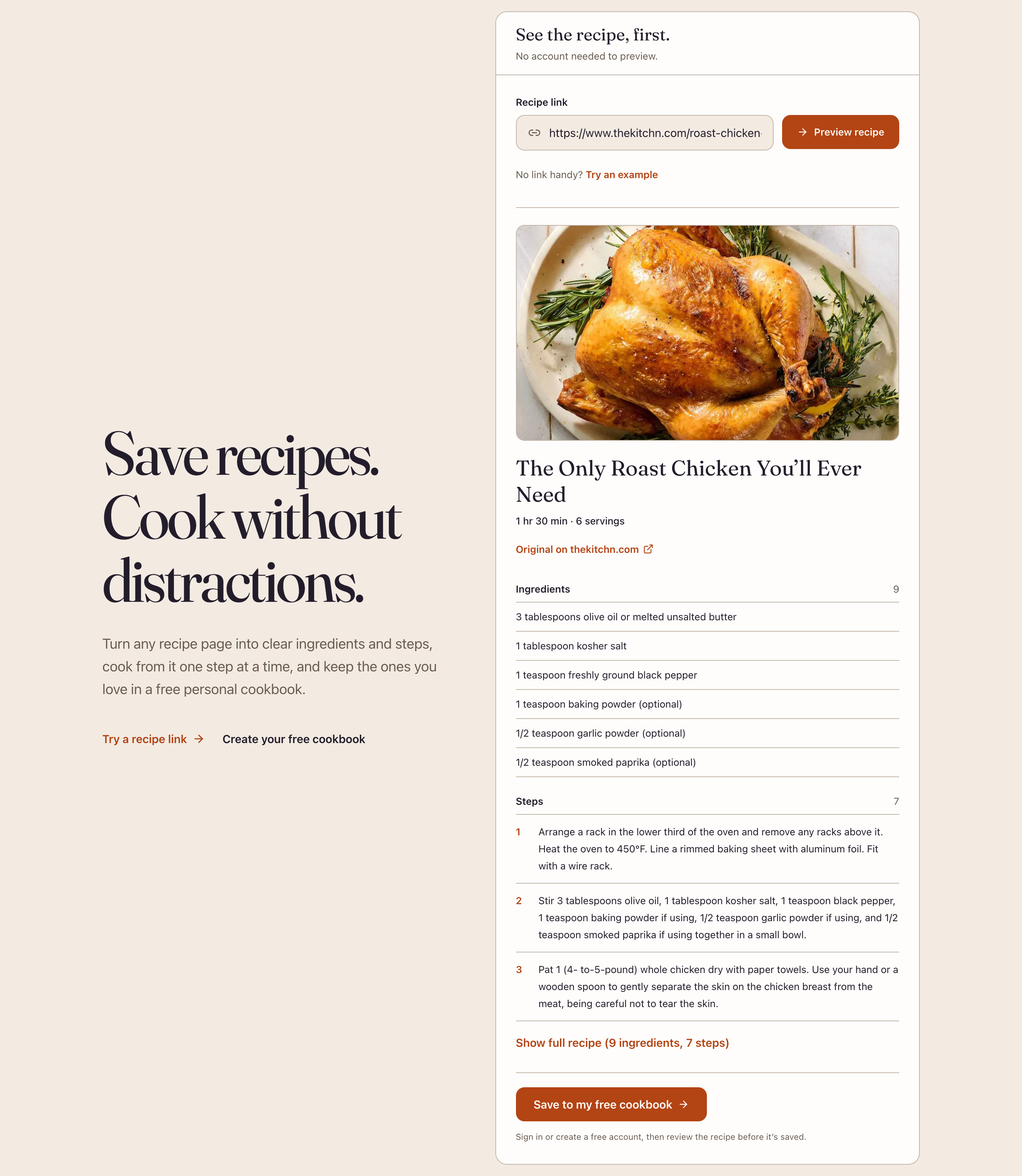
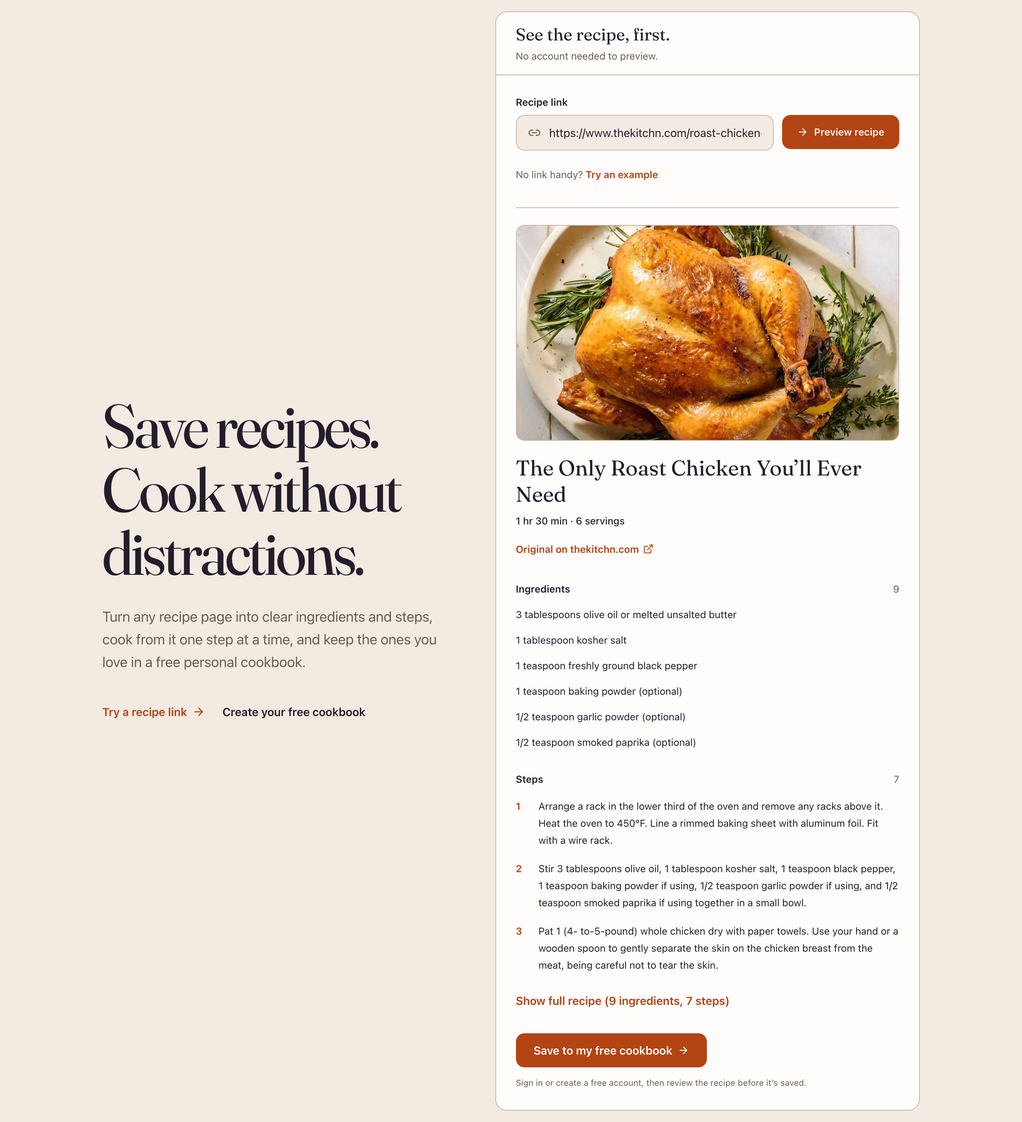
Landing: extension in a desktop Chrome window, no inner dividers
The side panel is shown beside a recipe blog in a drawn Chrome window
(capture-browser.mjs), cropped to toolbar and panel on phones, with a
desktop-only note under Add to Chrome. Phone bezel stays dark in both
themes. Lines between steps and descriptions inside a block removed.

diff --git a/scripts/store/browser.html b/scripts/store/browser.html
@@ -1,0 +1,82 @@
+<!doctype html>
+<!-- A desktop Chrome window drawn around two live pages: the recipe blog (host-page.html) and the real
+     extension side panel (extension/sidepanel.html, chrome.* stubbed by capture-browser.mjs).
+     Served from the repo root: http://127.0.0.1:8765/scripts/store/browser.html -->
+<html lang="en">
+<head>
+<meta charset="utf-8">
+<title>Keep &amp; Cook in Chrome</title>
+<style>
+  * { box-sizing: border-box; margin: 0; }
+  html, body { width: 100%; height: 100%; overflow: hidden; background: #dfe3e8; font-family: -apple-system, BlinkMacSystemFont, "Segoe UI", sans-serif; -webkit-font-smoothing: antialiased; color: #1f1f1f; }
+  svg { width: 20px; height: 20px; fill: none; stroke: #474747; stroke-width: 1.8; stroke-linecap: round; stroke-linejoin: round; flex: none; }
+  .window { display: grid; grid-template-rows: 42px 46px minmax(0, 1fr); height: 100%; }
+
+  .tabs { display: flex; align-items: flex-end; gap: 6px; padding: 0 12px; }
+  .lights { display: flex; gap: 8px; align-self: center; margin-right: 14px; }
+  .lights i { width: 12px; height: 12px; border-radius: 50%; background: #ff5f57; }
+  .lights i:nth-child(2) { background: #febc2e; } .lights i:nth-child(3) { background: #28c840; }
+  .tab { display: flex; align-items: center; gap: 9px; width: 260px; height: 34px; padding: 0 12px; border-radius: 10px 10px 0 0; background: #fff; font-size: 12.5px; }
+  .tab span:not(.favicon) { flex: 1; overflow: hidden; white-space: nowrap; text-overflow: ellipsis; }
+  .favicon { display: grid; place-items: center; width: 16px; height: 16px; border-radius: 4px; background: #2b2b2b; color: #fff; font: italic 11px Georgia, serif; }
+  .tab svg { width: 14px; height: 14px; }
+  .plus { align-self: center; margin-left: 4px; }
+
+  .toolbar { display: flex; align-items: center; gap: 14px; padding: 0 14px; background: #fff; border-bottom: 1px solid #e3e3e3; }
+  .omnibox { display: flex; flex: 1; align-items: center; gap: 10px; height: 34px; padding: 0 14px; border-radius: 17px; background: #eef1f4; font-size: 14px; color: #474747; }
+  .omnibox b { font-weight: 400; color: #1f1f1f; }
+  .omnibox .star { margin-left: auto; }
+  .ext { display: grid; place-items: center; width: 32px; height: 32px; border-radius: 50%; background: #e8eaed; }
+  .ext img { width: 18px; height: 18px; }
+  .avatar { width: 26px; height: 26px; border-radius: 50%; background: #8a6d5a; }
+
+  .content { display: grid; grid-template-columns: minmax(0, 1fr) 400px; min-height: 0; background: #fff; }
+  .content > iframe { width: 100%; height: 100%; border: 0; }
+  .side { display: grid; grid-template-rows: 44px minmax(0, 1fr); min-height: 0; border-left: 1px solid #d3d6da; }
+  .side-header { display: flex; align-items: center; gap: 10px; padding: 0 10px 0 16px; background: #fff; font-size: 13px; font-weight: 600; border-bottom: 1px solid #e3e3e3; }
+  .side-header img { width: 16px; height: 16px; }
+  .side-header .chevron { width: 14px; height: 14px; }
+  .side-header .end { margin-left: auto; display: flex; gap: 14px; }
+  .side-header .end svg { width: 17px; height: 17px; }
+  .side iframe { width: 100%; height: 100%; border: 0; }
+</style>
+</head>
+<body>
+  <div class="window">
+    <div class="tabs">
+      <div class="lights"><i></i><i></i><i></i></div>
+      <div class="tab"><span class="favicon">S</span><span>Lemon &amp; herb roast chicken – Sunday Suppers</span><svg viewBox="0 0 24 24"><path d="M6 6l12 12M18 6 6 18"/></svg></div>
+      <svg class="plus" viewBox="0 0 24 24"><path d="M12 5v14M5 12h14"/></svg>
+    </div>
+    <div class="toolbar">
+      <svg viewBox="0 0 24 24"><path d="M19 12H5m6-6-6 6 6 6"/></svg>
+      <svg viewBox="0 0 24 24" style="opacity: .45"><path d="M5 12h14m-6-6 6 6-6 6"/></svg>
+      <svg viewBox="0 0 24 24"><path d="M20 12a8 8 0 1 1-2.3-5.6M20 4v5h-5"/></svg>
+      <div class="omnibox">
+        <svg viewBox="0 0 24 24" style="width: 17px; height: 17px"><path d="M4 8h10m4 0h2M4 16h2m4 0h10"/><circle cx="16" cy="8" r="2"/><circle cx="8" cy="16" r="2"/></svg>
+        <span><b>sundaysuppers.example</b>/lemon-herb-roast-chicken</span>
+        <svg class="star" viewBox="0 0 24 24"><path d="m12 4 2.4 5 5.6.7-4.1 3.8 1 5.5-4.9-2.7-4.9 2.7 1-5.5L4 9.7 9.6 9z"/></svg>
+      </div>
+      <span class="ext" title="Keep &amp; Cook"><img src="/extension/icons/icon-32.png" alt=""></span>
+      <svg viewBox="0 0 24 24"><path d="M9 4h4v3a2 2 0 1 0 4 0V4h3v6h-3a2 2 0 1 0 0 4h3v6H4V4h5z"/></svg>
+      <svg viewBox="0 0 24 24"><rect x="4" y="5" width="16" height="14" rx="2"/><path d="M14 5v14"/></svg>
+      <span class="avatar"></span>
+      <svg viewBox="0 0 24 24"><circle cx="12" cy="5.5" r=".8"/><circle cx="12" cy="12" r=".8"/><circle cx="12" cy="18.5" r=".8"/></svg>
+    </div>
+    <div class="content">
+      <iframe src="host-page.html" title="Recipe page"></iframe>
+      <div class="side">
+        <div class="side-header">
+          <img src="/extension/icons/icon-32.png" alt=""><span>Keep &amp; Cook</span>
+          <svg class="chevron" viewBox="0 0 24 24"><path d="m6 9 6 6 6-6"/></svg>
+          <span class="end">
+            <svg viewBox="0 0 24 24"><path d="M9 4h6l-1 6 3 3H7l3-3zM12 13v7"/></svg>
+            <svg viewBox="0 0 24 24"><path d="M6 6l12 12M18 6 6 18"/></svg>
+          </span>
+        </div>
+        <iframe src="/extension/sidepanel.html" title="Keep &amp; Cook side panel"></iframe>
+      </div>
+    </div>
+  </div>
+</body>
+</html>

diff --git a/scripts/store/host-page.html b/scripts/store/host-page.html
@@ -1,0 +1,49 @@
+<!doctype html>
+<!-- A typical recipe blog page for the browser composition (browser.html). The site is made up and
+     uses our own demo recipe text and photo; it is deliberately not Keep & Cook styled. -->
+<html lang="en">
+<head>
+<meta charset="utf-8">
+<title>Lemon &amp; herb roast chicken – Sunday Suppers</title>
+<style>
+  * { box-sizing: border-box; margin: 0; }
+  body { font-family: Georgia, "Times New Roman", serif; color: #2b2b2b; background: #fff; font-size: 17px; line-height: 1.7; }
+  header { display: flex; align-items: center; justify-content: space-between; padding: 18px 40px; border-bottom: 1px solid #e6e6e6; }
+  .logo { font-size: 26px; font-style: italic; letter-spacing: -0.01em; }
+  nav { display: flex; gap: 26px; font-family: -apple-system, BlinkMacSystemFont, "Segoe UI", sans-serif; font-size: 13px; letter-spacing: 0.08em; text-transform: uppercase; color: #555; }
+  .ad { display: grid; place-items: center; background: #f2f2f2; color: #9a9a9a; font-family: -apple-system, BlinkMacSystemFont, sans-serif; font-size: 11px; letter-spacing: 0.12em; text-transform: uppercase; }
+  .ad.top { height: 90px; margin: 18px auto 0; width: 728px; max-width: calc(100% - 80px); }
+  .layout { display: grid; grid-template-columns: minmax(0, 1fr) 260px; gap: 40px; max-width: 1080px; margin: 0 auto; padding: 30px 40px; }
+  .crumbs { font-family: -apple-system, sans-serif; font-size: 12px; color: #888; text-transform: uppercase; letter-spacing: 0.08em; }
+  h1 { margin-top: 10px; font-size: 40px; line-height: 1.15; font-weight: 400; }
+  .byline { margin-top: 12px; font-family: -apple-system, sans-serif; font-size: 13px; color: #777; }
+  .jump { display: inline-block; margin-top: 16px; padding: 8px 16px; border: 1px solid #2b2b2b; font-family: -apple-system, sans-serif; font-size: 12px; letter-spacing: 0.1em; text-transform: uppercase; }
+  article p { margin-top: 18px; }
+  article img { display: block; width: 100%; aspect-ratio: 16 / 10; object-fit: cover; margin-top: 22px; }
+  .ad.inline { height: 250px; margin-top: 24px; }
+  aside .ad { height: 600px; }
+  aside h2 { margin-top: 28px; font-size: 15px; font-family: -apple-system, sans-serif; text-transform: uppercase; letter-spacing: 0.1em; }
+  .cookies { position: fixed; left: 0; right: 0; bottom: 0; display: flex; align-items: center; gap: 24px; padding: 16px 40px; background: #1f1f1f; color: #eee; font-family: -apple-system, sans-serif; font-size: 13px; line-height: 1.5; }
+  .cookies b { margin-left: auto; padding: 9px 18px; background: #fff; color: #1f1f1f; white-space: nowrap; }
+</style>
+</head>
+<body>
+  <header><div class="logo">Sunday Suppers</div><nav><span>Recipes</span><span>Dinner</span><span>Baking</span><span>About</span></nav></header>
+  <div class="ad top">Advertisement</div>
+  <div class="layout">
+    <article>
+      <div class="crumbs">Home › Dinner › Chicken</div>
+      <h1>The best lemon &amp; herb roast chicken (my family’s favourite!)</h1>
+      <div class="byline">Updated March 3 · 14 min read · 212 comments</div>
+      <span class="jump">Jump to recipe</span>
+      <p>There’s something about a Sunday roast that takes me straight back to my grandmother’s kitchen. The windows would fog up, the radio would be on, and the whole house smelled of lemon and thyme long before anyone sat down. I’ve made this chicken more times than I can count, and over the years I’ve tweaked it into the version you see today.</p>
+      <img src="photos/roast-chicken.webp" alt="">
+      <p>Before we get to the recipe, let’s talk about why this method works so well. The secret is in how you prepare the skin, and there are a few things you’ll want to know about choosing your chicken, which I’ll cover in detail below.</p>
+      <div class="ad inline">Advertisement</div>
+      <p>First, a little story about the first time I made this for a crowd…</p>
+    </article>
+    <aside><div class="ad">Advertisement</div><h2>Popular this week</h2></aside>
+  </div>
+  <div class="cookies">We use cookies to personalise content and ads and to analyse our traffic. <b>Accept all</b></div>
+</body>
+</html>

diff --git a/src/app/(marketing)/chrome-extension/page.tsx b/src/app/(marketing)/chrome-extension/page.tsx
@@ -2,7 +2,7 @@ import Link from "next/link";
 import { ArrowRight } from "lucide-react";
 
 import AddToChrome from "@/src/components/landing/AddToChrome";
-import { Screen, screens } from "@/src/components/landing/Screen";
+import { BrowserScreen, Screen, screens } from "@/src/components/landing/Screen";
 import { marketingMetadata } from "@/src/lib/page-metadata";
 
 export const metadata = marketingMetadata({
@@ -29,17 +29,15 @@ export default function ChromeExtensionPage() {
   return (
     <>
       <section aria-labelledby="extension-page-title" className="border-b border-border bg-background px-5 pb-16 pt-32 sm:px-8 sm:pb-24 sm:pt-40">
-        <div className="mx-auto grid max-w-6xl items-center gap-12 lg:grid-cols-[minmax(0,1.1fr)_minmax(0,.9fr)] lg:gap-20">
-          <div className="max-w-xl">
+        <div className="mx-auto max-w-6xl">
+          <div className="max-w-3xl">
             <h1 id="extension-page-title" className="font-display text-balance text-[clamp(2.75rem,5vw,4.5rem)] leading-[1.05] tracking-[-0.035em] text-foreground">Read, cook and save recipes in Chrome.</h1>
-            <p className="mt-7 max-w-[34rem] text-lg leading-8 text-muted-foreground sm:text-xl">
+            <p className="mt-7 max-w-[38rem] text-lg leading-8 text-muted-foreground sm:text-xl">
               Keep &amp; Cook puts the recipe beside the page, without the life story and the pop-ups. Reading, cooking and downloading are free and need no account.
             </p>
             <div className="mt-8"><AddToChrome /></div>
           </div>
-          <div className="mx-auto h-[43rem] w-full max-w-[20rem] overflow-hidden rounded-2xl border border-border">
-            <Screen screen={screens.extensionPanel} priority className="rounded-none border-0" />
-          </div>
+          <BrowserScreen priority className="mt-14" />
         </div>
       </section>
 
@@ -47,9 +45,9 @@ export default function ChromeExtensionPage() {
         <div className="mx-auto max-w-6xl">
           <h2 id="extension-features-title" className="max-w-2xl font-display text-balance text-4xl leading-[1.12] tracking-[-0.025em] text-foreground sm:text-5xl">What it does on a recipe page.</h2>
           <div className="mt-12 grid gap-12 lg:grid-cols-[minmax(0,.85fr)_minmax(0,1.15fr)] lg:gap-16">
-            <dl className="border-t border-border">
+            <dl>
               {features.map(([title, detail]) => (
-                <div key={title} className="border-b border-border py-6">
+                <div key={title} className="py-6">
                   <dt className="font-display text-2xl text-foreground">{title}</dt>
                   <dd className="mt-2 leading-7 text-muted-foreground">{detail}</dd>
                 </div>
@@ -64,9 +62,9 @@ export default function ChromeExtensionPage() {
         <div className="mx-auto grid max-w-6xl gap-12 lg:grid-cols-2 lg:gap-20">
           <div>
             <h2 id="extension-start-title" className="font-display text-balance text-4xl leading-[1.12] tracking-[-0.025em] text-foreground sm:text-5xl">Get started in a minute.</h2>
-            <ol className="mt-10 border-t border-border">
+            <ol className="mt-10">
               {steps.map(([title, detail], index) => (
-                <li key={title} className="grid grid-cols-[2.5rem_minmax(0,1fr)] gap-x-4 border-b border-border py-6">
+                <li key={title} className="grid grid-cols-[2.5rem_minmax(0,1fr)] gap-x-4 py-6">
                   <span aria-hidden="true" className="font-display text-2xl text-primary">{index + 1}</span>
                   <div>
                     <h3 className="text-lg font-semibold text-foreground">{title}</h3>

diff --git a/src/components/landing/Screen.tsx b/src/components/landing/Screen.tsx
@@ -2,7 +2,7 @@ import { cn } from "@/src/lib/utils";
 
 // Real Keep & Cook screens captured with the demo cookbook (scripts/store/capture-screens.mjs).
 export const screens = {
-  extensionPanel: { src: "/screens/extension-panel.webp", width: 800, height: 2080, alt: "The Keep & Cook side panel showing a roast chicken recipe: photo, time and servings, Save to my recipes and Start cooking buttons, and an ingredient checklist with two items ticked." },
+  extensionBrowser: { src: "/screens/extension-browser.webp", width: 2560, height: 1600, alt: "A desktop Chrome window: a cluttered recipe blog with ads and a cookie banner on the left, and the Keep & Cook side panel on the right showing the same roast chicken recipe with its photo, time and servings, and Save to my recipes and Start cooking buttons." },
   extensionCooking: { src: "/screens/extension-cooking.webp", width: 2400, height: 1400, alt: "Cooking mode from the extension: step 3 of 4 in large text, a one-hour timer running, and Previous and Next step buttons." },
   libraryDesktop: { src: "/screens/library-desktop.webp", width: 2560, height: 1600, alt: "A Keep & Cook library on a laptop: a search field and a grid of six saved recipes with photos and cooking times." },
   recipePhone: { src: "/screens/recipe-phone.webp", width: 1170, height: 2532, alt: "A saved roast chicken recipe on a phone, with its source link, time, servings and a Start cooking button." },
@@ -20,10 +20,28 @@ export function Screen({ screen, className, priority = false }: ScreenProps) {
   );
 }
 
-// A phone-shaped frame around a phone capture; the device edge uses the ink colour.
+// The extension in a desktop Chrome window (scripts/store/capture-browser.mjs). Below sm the capture is
+// cropped to its top right, where the toolbar and the side panel are, instead of shrinking the whole window.
+export function BrowserScreen({ className, priority = false }: { className?: string; priority?: boolean }) {
+  const screen = screens.extensionBrowser;
+  return (
+    <figure className={className}>
+      <div className="relative aspect-square overflow-hidden rounded-2xl border border-border bg-card sm:aspect-auto">
+        {/* eslint-disable-next-line @next/next/no-img-element -- static captures, already sized and compressed */}
+        <img src={screen.src} alt={screen.alt} width={screen.width} height={screen.height}
+          loading={priority ? "eager" : "lazy"} decoding="async"
+          className="absolute right-0 top-0 h-auto w-[192%] max-w-none sm:static sm:block sm:w-full" />
+      </div>
+      <figcaption className="mt-3 text-sm leading-6 text-muted-foreground">Keep &amp; Cook in Chrome’s side panel, on a computer.</figcaption>
+    </figure>
+  );
+}
+
+// A phone-shaped frame around a phone capture. The bezel is the light theme's ink in both themes (a phone
+// does not turn cream in dark mode), with a hairline so it still separates from a dark page.
 export function PhoneScreen({ screen, className }: Omit<ScreenProps, "priority">) {
   return (
-    <div className={cn("overflow-hidden rounded-[2.25rem] border-[7px] border-foreground bg-card", className)}>
+    <div className={cn("overflow-hidden rounded-[2.25rem] border-[7px] border-[hsl(268_20%_14%)] bg-card shadow-[0_0_0_1px_hsl(var(--border)),0_24px_48px_-20px_rgb(0_0_0/0.45)]", className)}>
       {/* eslint-disable-next-line @next/next/no-img-element -- static captures, already sized and compressed */}
       <img src={screen.src} alt={screen.alt} width={screen.width} height={screen.height} loading="lazy" decoding="async" className="block h-auto w-full" />
     </div>

diff --git a/src/components/landing/Hero.tsx b/src/components/landing/Hero.tsx
@@ -181,12 +181,12 @@ export default function Hero() {
 
                   {ingredients.length > 0 && (
                     <section aria-labelledby="hero-ingredients" className="mt-6">
-                      <h3 id="hero-ingredients" className="flex items-baseline justify-between gap-3 border-b border-border pb-2 text-sm font-semibold text-foreground">
+                      <h3 id="hero-ingredients" className="flex items-baseline justify-between gap-3 pb-2 text-sm font-semibold text-foreground">
                         Ingredients <span className="font-normal text-muted-foreground">{ingredients.length}</span>
                       </h3>
                       <ul className="text-sm leading-6 text-foreground">
                         {shownIngredients.map((line, index) => (
-                          <li key={`${index}-${line}`} className="border-b border-border py-2 [overflow-wrap:anywhere]">{line}</li>
+                          <li key={`${index}-${line}`} className="py-1.5 [overflow-wrap:anywhere]">{line}</li>
                         ))}
                       </ul>
                     </section>
@@ -194,12 +194,12 @@ export default function Hero() {
 
                   {steps.length > 0 && (
                     <section aria-labelledby="hero-steps" className="mt-6">
-                      <h3 id="hero-steps" className="flex items-baseline justify-between gap-3 border-b border-border pb-2 text-sm font-semibold text-foreground">
+                      <h3 id="hero-steps" className="flex items-baseline justify-between gap-3 pb-2 text-sm font-semibold text-foreground">
                         Steps <span className="font-normal text-muted-foreground">{steps.length}</span>
                       </h3>
                       <ol className="text-sm leading-6 text-foreground">
                         {shownSteps.map((text, index) => (
-                          <li key={`${index}-${text.slice(0, 24)}`} className="grid grid-cols-[1.5rem_minmax(0,1fr)] gap-2 border-b border-border py-3">
+                          <li key={`${index}-${text.slice(0, 24)}`} className="grid grid-cols-[1.5rem_minmax(0,1fr)] gap-2 py-2">
                             <span aria-hidden="true" className="font-semibold text-primary">{index + 1}</span>
                             <p className={expanded ? "[overflow-wrap:anywhere]" : "line-clamp-4 [overflow-wrap:anywhere]"}>{text}</p>
                           </li>
@@ -215,7 +215,7 @@ export default function Hero() {
                     </button>
                   )}
 
-                  <div className="mt-5 border-t border-border pt-5">
+                  <div className="mt-6">
                     <Button asChild size="lg" className="w-full sm:w-auto"><Link href="/dashboard" onClick={keepDraft}>Save to my free cookbook <ArrowRight aria-hidden="true" /></Link></Button>
                     <p className="mt-3 text-xs leading-5 text-muted-foreground">Sign in or create a free account, then review the recipe before it’s saved.</p>
                   </div>

diff --git a/src/components/landing/ExtensionSection.tsx b/src/components/landing/ExtensionSection.tsx
@@ -1,25 +1,25 @@
 import Link from "next/link";
 import { ArrowRight } from "lucide-react";
 import AddToChrome from "./AddToChrome";
-import { Screen, screens } from "./Screen";
+import { BrowserScreen } from "./Screen";
 
 export default function ExtensionSection() {
   return (
     <section id="extension" aria-labelledby="extension-title" className="scroll-mt-20 border-b border-border bg-background px-5 py-20 sm:px-8 sm:py-28">
-      <div className="mx-auto grid max-w-6xl items-center gap-14 lg:grid-cols-[minmax(0,1.1fr)_minmax(0,.9fr)] lg:gap-20">
-        <div>
+      <div className="mx-auto max-w-6xl">
+        <div className="grid gap-x-20 gap-y-6 lg:grid-cols-[minmax(0,1.1fr)_minmax(0,.9fr)] lg:items-end">
           <h2 id="extension-title" className="font-display text-balance text-4xl leading-[1.12] tracking-[-0.025em] text-foreground sm:text-5xl">A cleaner recipe, right beside the page.</h2>
-          <p className="mt-6 max-w-lg text-lg leading-8 text-muted-foreground">
-            The Keep &amp; Cook extension opens the recipe in Chrome’s side panel: ingredients to tick off, steps to follow, cooking mode with timers. Reading and cooking need no account. Save it to your cookbook when you want to keep it.
-          </p>
-          <div className="mt-8"><AddToChrome /></div>
-          <Link href="/chrome-extension" className="mt-5 inline-flex min-h-11 items-center gap-2 font-semibold text-primary underline-offset-4 hover:underline">
-            See how the extension works <ArrowRight aria-hidden="true" size={18} />
-          </Link>
+          <div>
+            <p className="max-w-lg text-lg leading-8 text-muted-foreground">
+              The Keep &amp; Cook extension opens the recipe in Chrome’s side panel: ingredients to tick off, steps to follow, cooking mode with timers. Reading and cooking need no account. Save it to your cookbook when you want to keep it.
+            </p>
+            <div className="mt-8"><AddToChrome /></div>
+            <Link href="/chrome-extension" className="mt-5 inline-flex min-h-11 items-center gap-2 font-semibold text-primary underline-offset-4 hover:underline">
+              See how the extension works <ArrowRight aria-hidden="true" size={18} />
+            </Link>
+          </div>
         </div>
-        <div className="mx-auto h-[43rem] w-full max-w-[20rem] overflow-hidden rounded-2xl border border-border">
-          <Screen screen={screens.extensionPanel} className="rounded-none border-0" />
-        </div>
+        <BrowserScreen className="mt-12 sm:mt-14" />
       </div>
     </section>
   );

diff --git a/src/components/landing/AddToChrome.tsx b/src/components/landing/AddToChrome.tsx
@@ -5,13 +5,17 @@ import { env } from "@/src/lib/env";
 // The store link arrives through NEXT_PUBLIC_CHROME_EXTENSION_URL once the listing is public;
 // until then the button stays visibly unavailable instead of pointing nowhere.
 export default function AddToChrome() {
+  const desktop = <p className="mt-3 text-sm leading-6 text-muted-foreground">For Chrome on a computer: Windows, Mac, Linux and ChromeOS.</p>;
   if (env.chromeExtensionUrl) {
-    return <Button asChild size="lg"><a href={env.chromeExtensionUrl} target="_blank" rel="noopener noreferrer">Add to Chrome <ArrowRight aria-hidden="true" /></a></Button>;
+    return <div><Button asChild size="lg"><a href={env.chromeExtensionUrl} target="_blank" rel="noopener noreferrer">Add to Chrome <ArrowRight aria-hidden="true" /></a></Button>{desktop}</div>;
   }
   return (
-    <div className="flex flex-wrap items-center gap-x-4 gap-y-2">
-      <Button size="lg" disabled aria-describedby="add-to-chrome-status">Add to Chrome <ArrowRight aria-hidden="true" /></Button>
-      <span id="add-to-chrome-status" className="text-sm text-muted-foreground">Coming soon to the Chrome Web Store.</span>
+    <div>
+      <div className="flex flex-wrap items-center gap-x-4 gap-y-2">
+        <Button size="lg" disabled aria-describedby="add-to-chrome-status">Add to Chrome <ArrowRight aria-hidden="true" /></Button>
+        <span id="add-to-chrome-status" className="text-sm text-muted-foreground">Coming soon to the Chrome Web Store.</span>
+      </div>
+      {desktop}
     </div>
   );
 }

diff --git a/src/components/landing/WaysToSave.tsx b/src/components/landing/WaysToSave.tsx
@@ -33,9 +33,9 @@ export default function WaysToSave() {
           <h2 id="ways-to-save-title" className="font-display text-balance text-4xl leading-[1.12] tracking-[-0.025em] text-foreground sm:text-5xl">Three ways to fill your cookbook.</h2>
           <p className="mt-6 max-w-md text-lg leading-8 text-muted-foreground">Every recipe lands in the same private library, and you check it before it’s saved.</p>
         </div>
-        <ul className="border-t border-border">
+        <ul>
           {ways.map(({ icon: Icon, title, detail, href, action }) => (
-            <li key={title} className="grid gap-x-6 gap-y-3 border-b border-border py-8 sm:grid-cols-[2.5rem_minmax(0,1fr)]">
+            <li key={title} className="grid gap-x-6 gap-y-3 py-8 sm:grid-cols-[2.5rem_minmax(0,1fr)]">
               <Icon aria-hidden="true" className="text-primary" size={26} strokeWidth={1.5} />
               <div>
                 <h3 className="font-display text-2xl text-foreground">{title}</h3>

diff --git a/src/app/(marketing)/install/page.tsx b/src/app/(marketing)/install/page.tsx
@@ -68,9 +68,9 @@ export default function InstallPage() {
             <div key={id} id={id} className="scroll-mt-24">
               <h2 className="font-display text-4xl leading-[1.12] tracking-[-0.025em] text-foreground">{name}</h2>
               <p className="mt-3 text-muted-foreground">In {browser}</p>
-              <ol className="mt-8 border-t border-border">
+              <ol className="mt-8">
                 {steps.map(({ text, icon: Icon }, index) => (
-                  <li key={text} className="grid grid-cols-[2.5rem_minmax(0,1fr)] items-baseline gap-x-4 border-b border-border py-5">
+                  <li key={text} className="grid grid-cols-[2.5rem_minmax(0,1fr)] items-baseline gap-x-4 py-5">
                     <span aria-hidden="true" className="font-display text-2xl text-primary">{index + 1}</span>
                     <p className="flex flex-wrap items-center gap-x-2 leading-7 text-foreground">
                       {text}

diff --git a/src/components/landing/CookbookSection.tsx b/src/components/landing/CookbookSection.tsx
@@ -21,9 +21,9 @@ export default function CookbookSection() {
           <Screen screen={screens.libraryDesktop} />
           <PhoneScreen screen={screens.cookPhone} className="absolute bottom-0 right-0 w-[30%] max-w-64 sm:w-[24%]" />
         </div>
-        <dl className="mt-14 grid gap-x-10 border-t border-border sm:grid-cols-2 lg:grid-cols-4">
+        <dl className="mt-14 grid gap-x-10 sm:grid-cols-2 lg:grid-cols-4">
           {facts.map(([title, detail]) => (
-            <div key={title} className="border-b border-border py-6 lg:border-b-0">
+            <div key={title} className="py-6">
               <dt className="font-display text-xl text-foreground">{title}</dt>
               <dd className="mt-2 leading-7 text-muted-foreground">{detail}</dd>
             </div>
